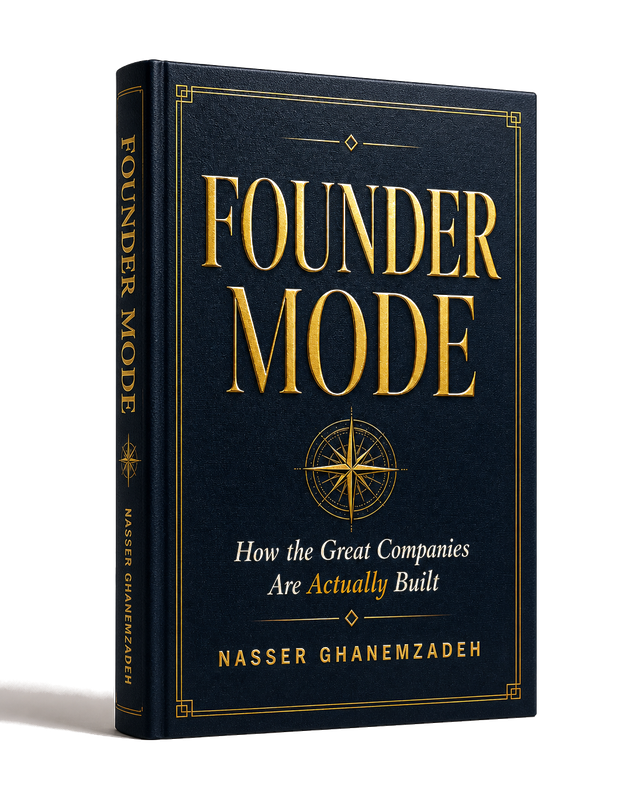
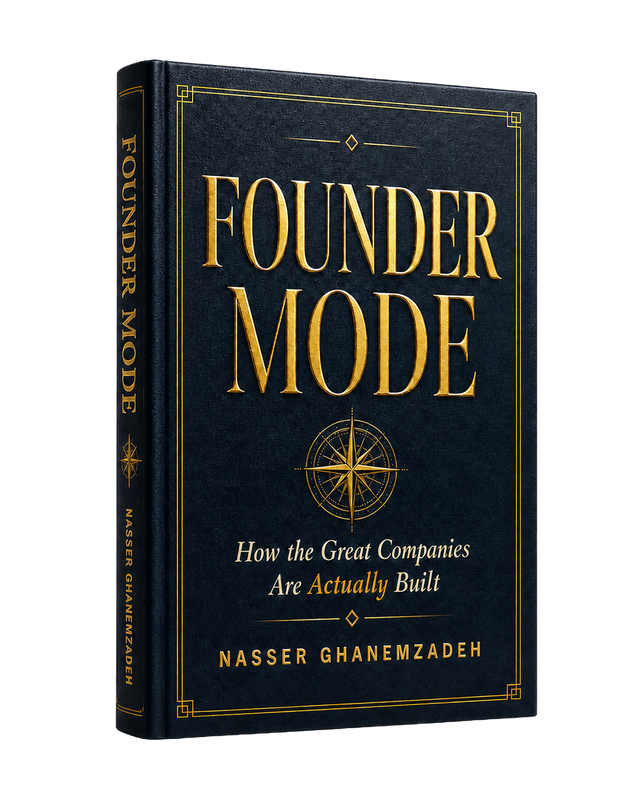
hero: replace cover-transparent with the proper alpha-export render
The PR #19 asset was a Pillow distance-threshold strip of the
cream-background render and left a faint triangular shadow remnant at
the bottom-left of the book. Nasser supplied the proper
hand-tuned-alpha export; this commit drops it in.

- assets/book/source/Book-cover.png: original 1122x1402 RGBA
- assets/book/cover-transparent.png: 640x800 PNG-with-alpha (596KB)
- assets/book/cover-transparent.webp: 640x800 WebP-with-alpha (74KB)

Removes the now-stale TODO in book/index.html that flagged the auto-strip
needing a re-export. Updates the rim-light TODO in main.css to drop the
"needs proper alpha first" caveat (alpha is now available).

diff --git a/book/index.html b/book/index.html
@@ -78,8 +78,6 @@
     <header class="hero book-hero">
       <div class="container">
         <div class="book-hero__grid">
-          <!-- TODO(asset): cover-transparent.{webp,png} is a Pillow auto-strip of cover-angle-light.
-               Re-export the 3D render with hand-tuned alpha for a fully clean cutout. -->
           <div class="book-hero__cover">
             <picture>
               <source type="image/webp" srcset="/assets/book/cover-transparent.webp">

diff --git a/main.css b/main.css
@@ -829,8 +829,7 @@ img {
   max-width: 280px;
   margin: 0 auto;
   filter: drop-shadow(0 20px 30px rgba(0, 0, 0, 0.5));
-  /* TODO(rim-light): brief asks for a 1-2px gold rim on the right edge at ~15% opacity.
-     Skipping for now — needs the proper alpha export to know the book's right edge precisely. */
+  /* TODO(rim-light): brief asks for a 1-2px gold rim on the right edge at ~15% opacity. */
 }
 
 .book-hero__cover img {
